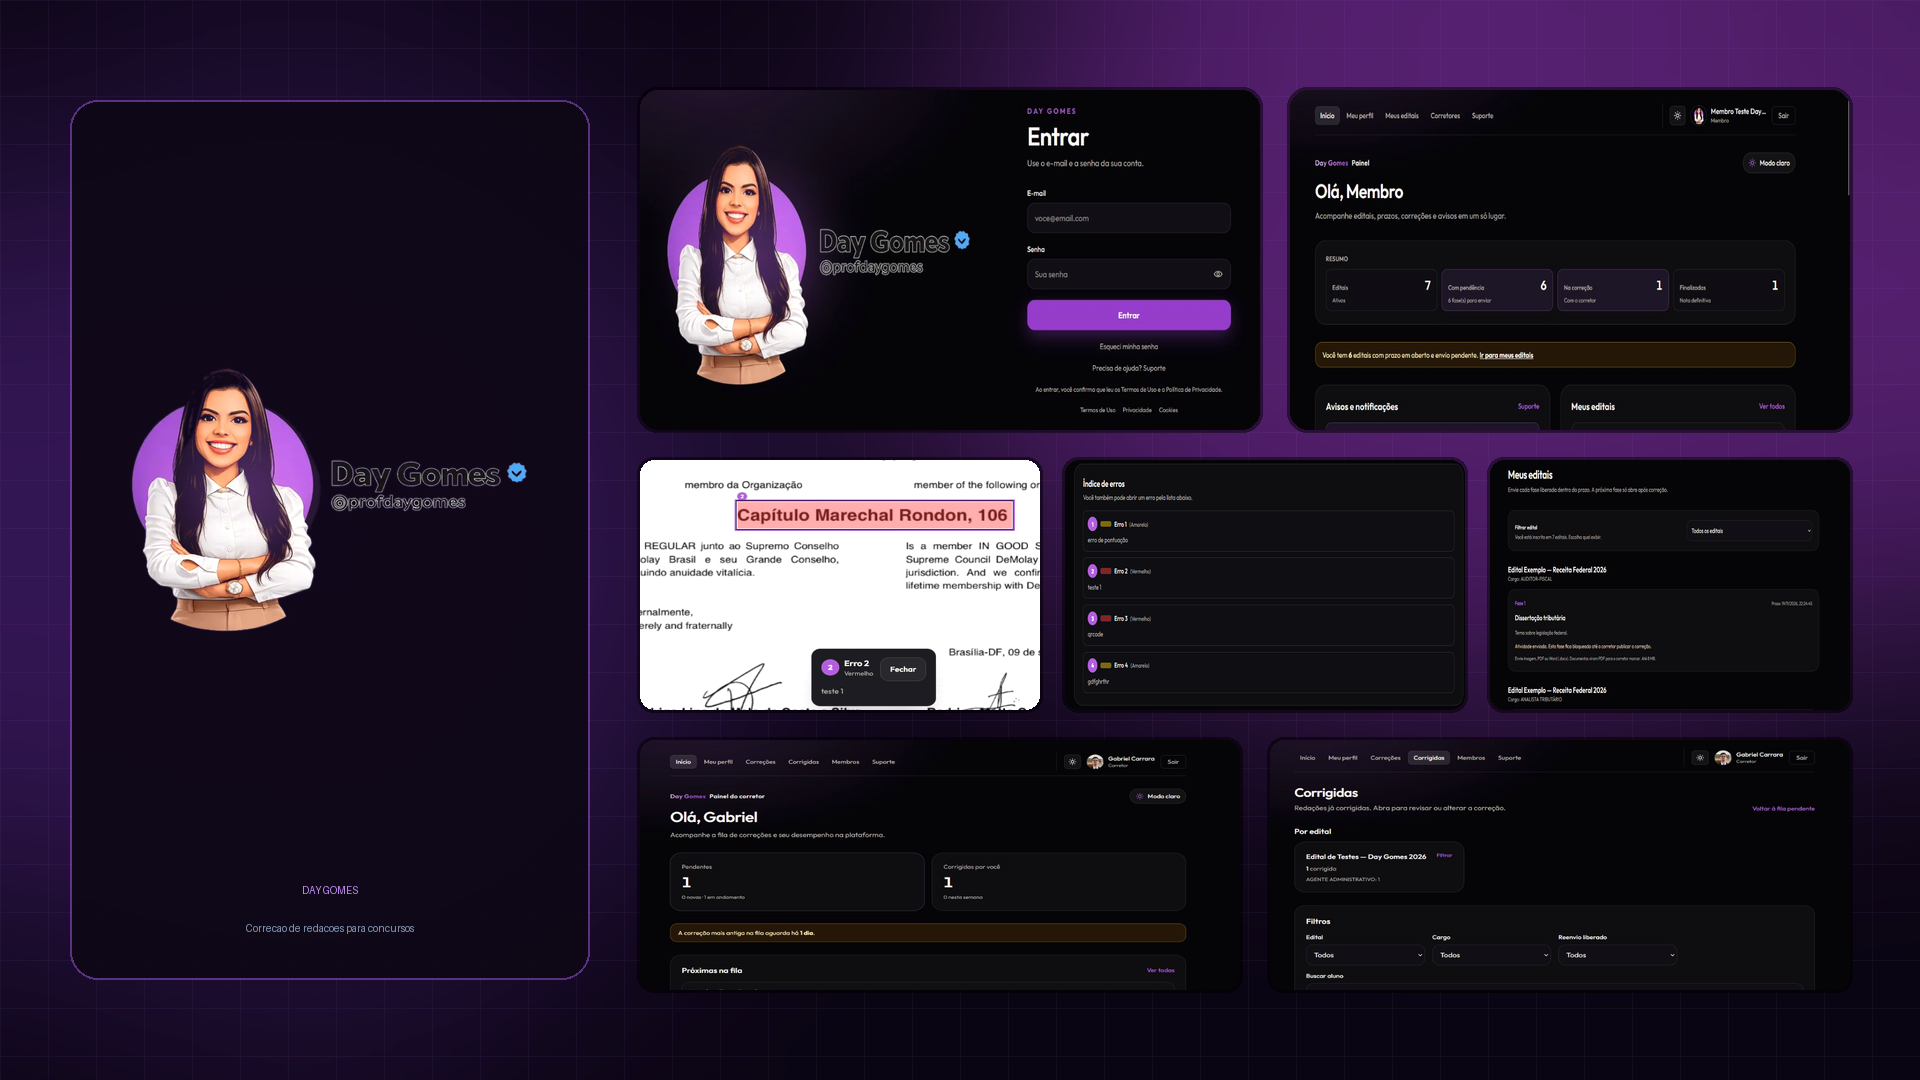
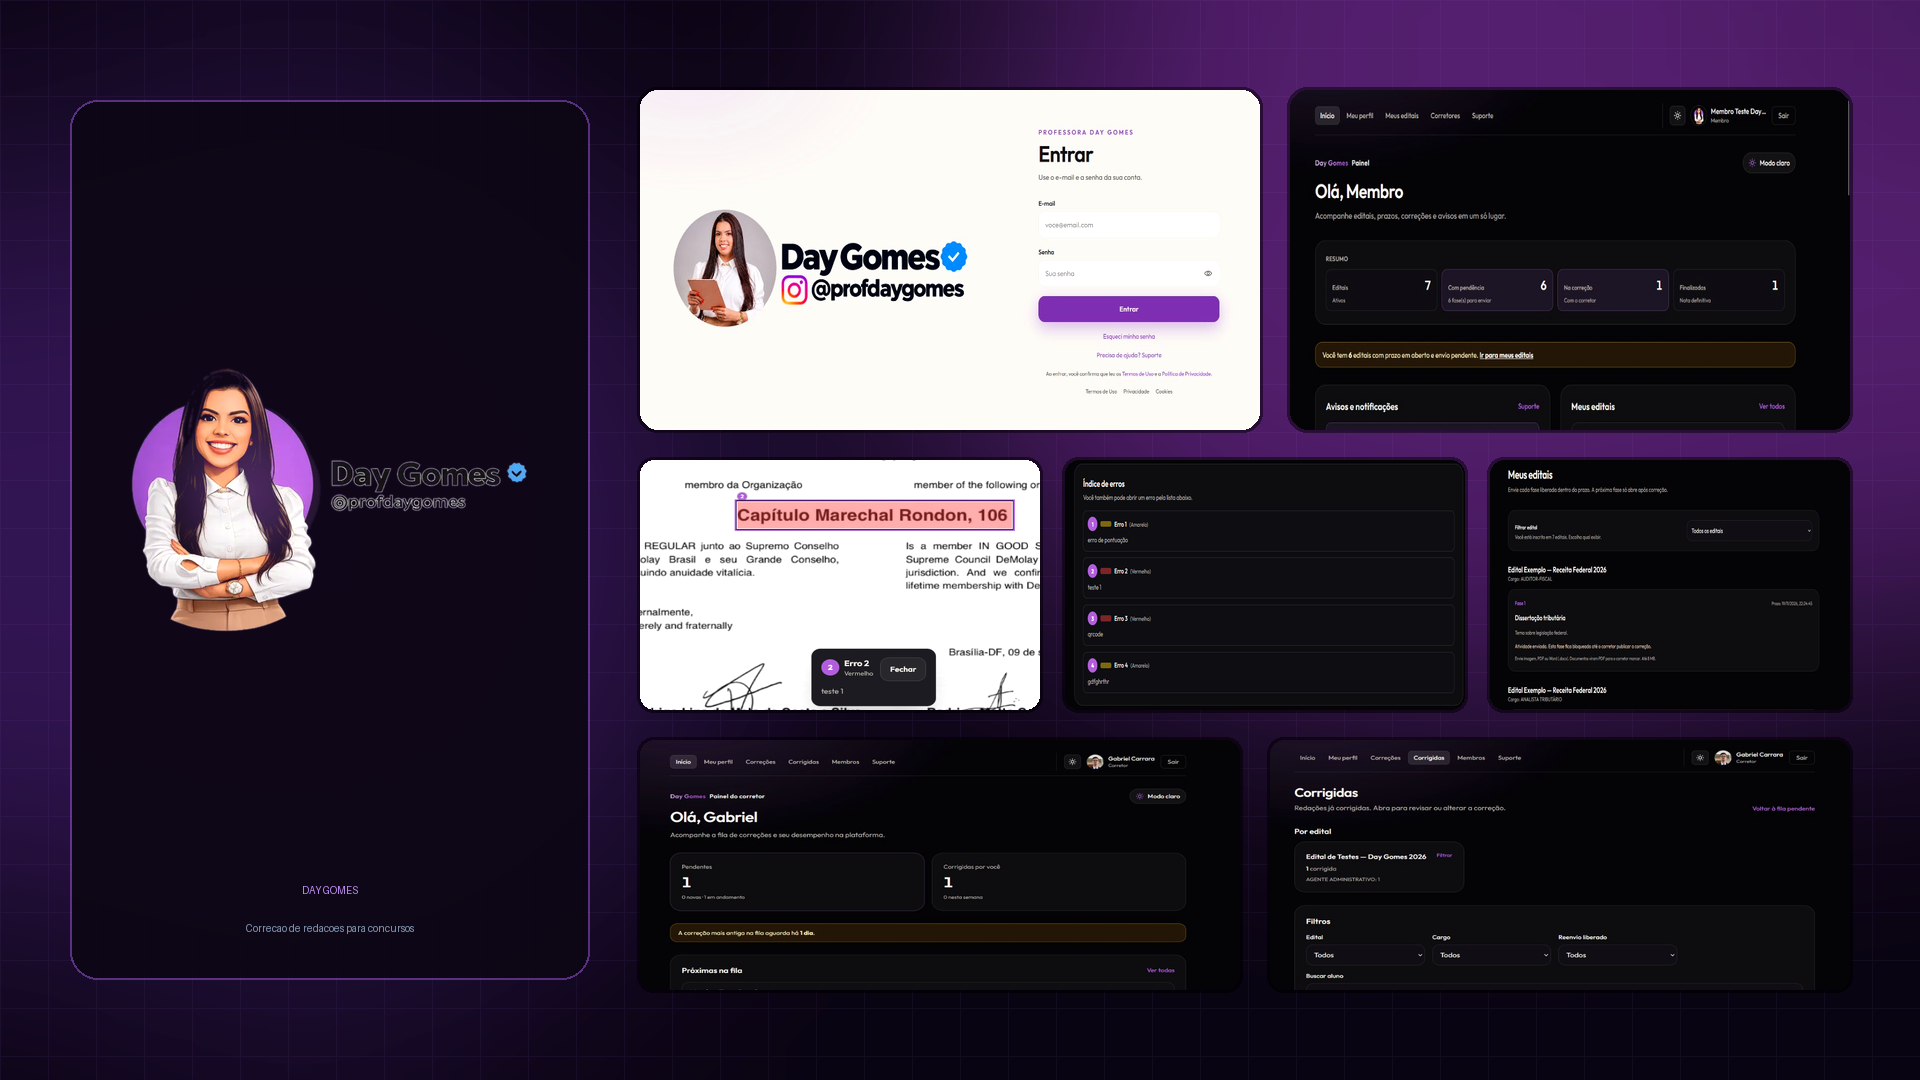
Usa o novo print de login da Day Gomes como imagem principal.

Changed region(s): [[0.3125, 0.0611, 0.6562, 0.3972]]

diff --git a/src/lib/featured-projects.ts b/src/lib/featured-projects.ts
@@ -224,11 +224,11 @@ export const FEATURED_PROJECTS = [
       'Plataforma de correção de redações para concursos integrada à Kiwify: o aluno compra o curso e recebe o acesso automaticamente, envia as redações por edital e fase, e a equipe de corretores marca os erros direto no texto e atribui a nota pelos critérios de cada concurso.',
     href: 'https://www.daygomes.com.br/',
     logo: '/projetos/daygomes/logo.png?v=1',
-    image: '/projetos/prints/daygomes.png?v=1',
-    print: '/projetos/prints/daygomes.png?v=1',
+    image: '/projetos/prints/daygomes/safe/login.png?v=2',
+    print: '/projetos/prints/daygomes/safe/login.png?v=2',
     gallery: [
-      '/projetos/prints/daygomes.png?v=1',
-      '/projetos/prints/daygomes/safe/login.png',
+      '/projetos/prints/daygomes/safe/login.png?v=2',
+      '/projetos/prints/daygomes.png?v=2',
       '/projetos/prints/daygomes/safe/aluno-inicio.png',
       '/projetos/prints/daygomes/safe/meus-editais.png',
       '/projetos/prints/daygomes/safe/correcao-marcacao.png',

diff --git a/scripts/rebuild_daygomes_cover.py b/scripts/rebuild_daygomes_cover.py
@@ -2,9 +2,10 @@
 from pathlib import Path
 from PIL import Image, ImageDraw, ImageFilter, ImageEnhance
 
-SAFE = Path(r"c:\Users\gabri\yopdevs\public\projetos\prints\daygomes\safe")
-OUT = Path(r"c:\Users\gabri\yopdevs\public\projetos\prints\daygomes.png")
-LOGO_SRC = Path(r"c:\Users\gabri\yopdevs\public\projetos\daygomes\logo.png")
+ROOT = Path(r"c:\Users\Gabriel Carrara\yopdevs")
+SAFE = ROOT / "public" / "projetos" / "prints" / "daygomes" / "safe"
+OUT = ROOT / "public" / "projetos" / "prints" / "daygomes.png"
+LOGO_SRC = ROOT / "public" / "projetos" / "daygomes" / "logo.png"
 
 logo = Image.open(LOGO_SRC).convert("RGBA")
 print(f"logo src -> {logo.size} mode={logo.mode}")
